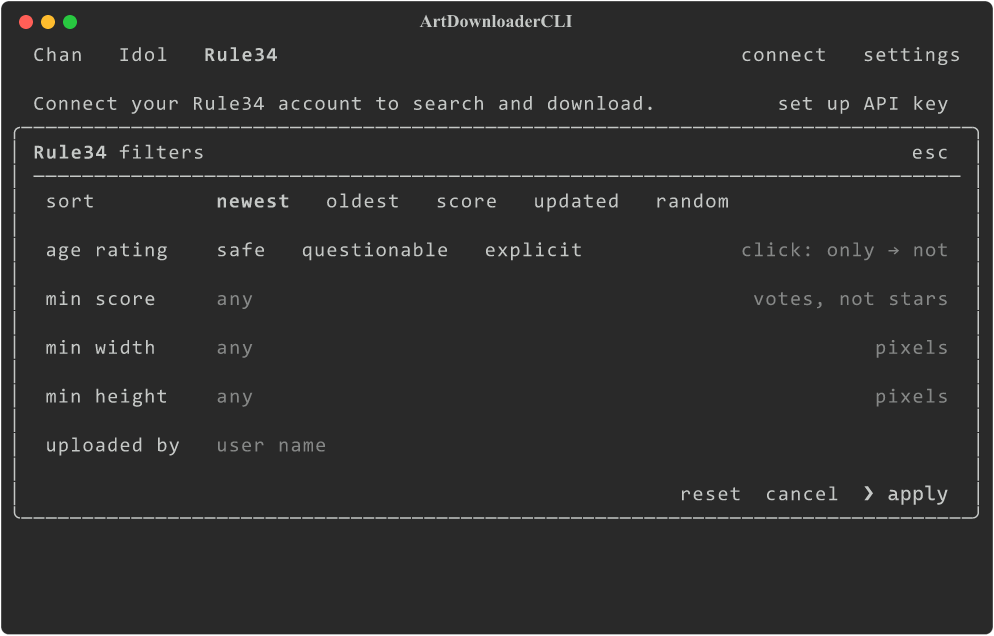
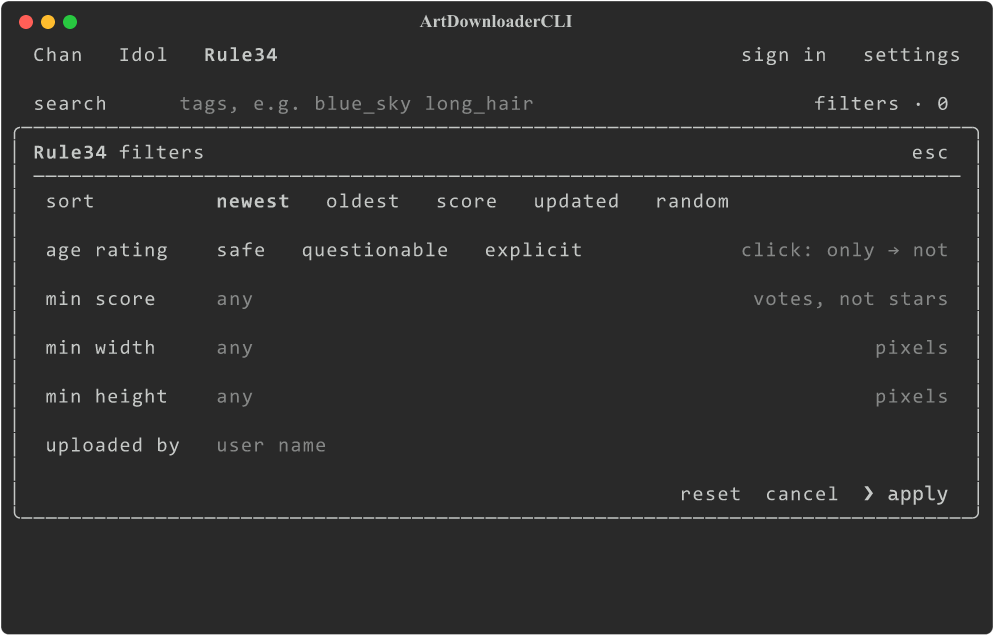
Reuse existing sign-in flow and fix optional numeric filters

diff --git a/ArtDownloader/Tui/AuthScreen.py b/ArtDownloader/Tui/AuthScreen.py
@@ -12,7 +12,6 @@ from ArtDownloader.Api.Errors import ApiError
 from ArtDownloader.Tui.Navigation import ArrowNavigation
 from ArtDownloader.Tui.Sites import site_title
 from ArtDownloader.Tui.Widgets import Action
-import webbrowser
 
 
 class AuthResult(Enum):
@@ -42,26 +41,12 @@ class AuthScreen(ModalScreen[AuthResult], ArrowNavigation):
 
     def compose(self) -> ComposeResult:
         key_auth: bool = self.definition.auth_kind is AuthKind.API_KEY
-        with Vertical(id='dialog', classes='key-dialog' if key_auth else ''):
+        with Vertical(id='dialog'):
             with Horizontal(classes='line'):
-                action: str = 'connect' if key_auth else 'sign in'
-                yield Static(f'[b]{site_title(self.api.site)}[/] · {action}', classes='fill')
+                yield Static(f'[b]{site_title(self.api.site)}[/] · sign in', classes='fill')
                 yield Action('esc', id='close')
 
             yield Rule()
-
-            if key_auth:
-                yield Static(
-                    'An [b]API key[/] is a private access code for this app.\n\n'
-                    '1. Open account settings below and sign in.\n'
-                    '2. Under [b]API Access Credentials[/], select [b]Generate New Key?[/] '
-                    'and [b]Save[/] if you do not have a key yet.\n'
-                    '3. Paste your [b]User ID[/] and [b]API key[/] below.',
-                    id='auth-guide'
-                )
-                with Horizontal(classes='field'):
-                    yield Action('open account settings ↗', 'accent', id='open-account-settings')
-                yield Static(self.definition.account_url, id='account-settings-url', markup=False)
 
             with Horizontal(classes='field'):
                 yield Label('User ID' if key_auth else 'login', classes='caption')
@@ -80,8 +65,10 @@ class AuthScreen(ModalScreen[AuthResult], ArrowNavigation):
                 yield Action('show', id='reveal')
 
             yield Static(
-                'Your key is saved locally in .config/session.json. Keep it private. '
-                'Request limits are handled automatically.'
+                'An API key is a private access code for this app.\n'
+                'In Rule34 account settings → API Access Credentials, '
+                'generate a key and Save. Copy User ID and API key here.\n'
+                'The key is saved locally; keep it private.'
                 if key_auth else 'The password is only exchanged for a session token; it is never saved.',
                 id='auth-hint'
             )
@@ -92,7 +79,7 @@ class AuthScreen(ModalScreen[AuthResult], ArrowNavigation):
                 yield Static('', id='auth-error', classes='fill message')
                 if self.can_retry:
                     yield Action('↻ retry check', id='retry')
-                yield Action('❯ connect' if key_auth else '❯ sign in', 'accent', id='sign-in')
+                yield Action('❯ sign in', 'accent', id='sign-in')
 
 
     def on_mount(self) -> None:
@@ -109,8 +96,6 @@ class AuthScreen(ModalScreen[AuthResult], ArrowNavigation):
             self.toggle_reveal()
         elif action_id == 'retry':
             self.dismiss(AuthResult.RETRY)
-        elif action_id == 'open-account-settings':
-            self.open_account_settings()
         elif action_id == 'close':
             self.action_close()
 
@@ -126,21 +111,6 @@ class AuthScreen(ModalScreen[AuthResult], ArrowNavigation):
     def action_close(self) -> None:
         if not self.busy:
             self.dismiss(AuthResult.CLOSED)
-
-
-    @work(thread=True, exit_on_error=False)
-    def open_account_settings(self) -> None:
-        try:
-            opened: bool = webbrowser.open(self.definition.account_url)
-        except webbrowser.Error:
-            opened = False
-        if not opened:
-            self.app.call_from_thread(self.show_account_url)
-
-
-    def show_account_url(self) -> None:
-        self.query_one('#account-settings-url').display = True
-        self.show_error('Open the account settings URL above in your browser')
 
 
     def toggle_reveal(self) -> None:
@@ -197,10 +167,7 @@ class AuthScreen(ModalScreen[AuthResult], ArrowNavigation):
         self.busy = busy
         sign_in = self.query_one('#sign-in', Action)
         sign_in.disabled = busy
-        key_auth: bool = self.definition.auth_kind is AuthKind.API_KEY
-        sign_in.label = ('checking key…' if key_auth else 'signing in…') if busy else (
-            '❯ connect' if key_auth else '❯ sign in'
-        )
+        sign_in.label = 'signing in…' if busy else '❯ sign in'
         for selector in ('#username', '#password', '#close'):
             self.query_one(selector).disabled = busy
 

diff --git a/ArtDownloader/Tui/SitePane.py b/ArtDownloader/Tui/SitePane.py
@@ -8,7 +8,7 @@ from textual.widgets import Input, Label, OptionList, ProgressBar, Rule, Static
 from rich.markup import escape
 from ArtDownloader.Api.Factory import create_source
 from ArtDownloader.Api.Source import Source
-from ArtDownloader.Api.Sites import AuthKind, Site, SiteDefinition, definition_for
+from ArtDownloader.Api.Sites import Site, SiteDefinition, definition_for
 from ArtDownloader.Api.Filters import SearchFilters, count_operators
 from ArtDownloader.Api.Queries import build_query
 from ArtDownloader.Api.Models import MediaItem, SessionCheck, SessionStatus
@@ -180,9 +180,6 @@ class SitePane(Vertical):
         menu = SuggestionMenu(id='tag-menu')
 
         with Vertical(classes='form'):
-            with Horizontal(id='connection-hint'):
-                yield Static('Connect your Rule34 account to search and download.', classes='fill')
-                yield Action('set up API key', 'accent', id='connect')
             # The menu hangs directly under the query, so both share one group
             # and the row gap goes below the pair. The filter summary is always
             # there (showing 'no filters' when empty), so filters never shift
@@ -261,8 +258,6 @@ class SitePane(Vertical):
             self.toggle_pause()
         elif action_id == 'stop':
             self.stop_download()
-        elif action_id == 'connect':
-            self.open_account()
 
 
     def on_input_submitted(self, event: Input.Submitted) -> None:
@@ -461,10 +456,7 @@ class SitePane(Vertical):
             return
 
         if self.is_signed_in():
-            self.app.push_screen(
-                AccountMenu('disconnect' if self.definition.auth_kind is AuthKind.API_KEY else 'sign out'),
-                self.account_menu_closed
-            )
+            self.app.push_screen(AccountMenu(), self.account_menu_closed)
             return
 
         screen = AuthScreen(self.api, error=self.auth_error or '', can_retry=self.auth_retryable)
@@ -644,10 +636,6 @@ class SitePane(Vertical):
         start = self.query_one('#start', Action)
         start.display = not self.running
         start.disabled = self.checking
-        needs_connection: bool = self.definition.requires_auth and not self.is_signed_in()
-        start.label = 'connect to start' if needs_connection else '▶ start'
-        self.query_one('#connection-hint').display = needs_connection
-        self.query_one('#connect').disabled = self.checking
 
         pause = self.query_one('#pause', Action)
         pause.display = self.running and not stopping

diff --git a/ArtDownloader/Tui/App.py b/ArtDownloader/Tui/App.py
@@ -5,7 +5,7 @@ from textual.containers import Horizontal
 from textual.theme import Theme
 from textual.timer import Timer
 from textual.widgets import ContentSwitcher, Static
-from ArtDownloader.Api.Sites import AuthKind, Site
+from ArtDownloader.Api.Sites import Site
 from ArtDownloader.Auth.CredentialStore import CredentialStore
 from ArtDownloader.Config import AppConfig
 from ArtDownloader.Tui.SitePane import SPINNER_FRAMES, SPINNER_INTERVAL_SECONDS, AccountView, SitePane
@@ -186,16 +186,13 @@ class ArtDownloaderApp(App[None]):
         view = pane.account_view()
         account = self.query_one('#account', Action)
         note = self.query_one('#account-note', Static)
-        key_auth: bool = pane.definition.auth_kind is AuthKind.API_KEY
-
-        note.display = not key_auth and view in (AccountView.SIGNED_IN, AccountView.SIGNED_OUT)
+        note.display = view in (AccountView.SIGNED_IN, AccountView.SIGNED_OUT)
         note.update('[dim]signed in as[/]' if view is AccountView.SIGNED_IN else '[dim]not signed in ·[/]')
         account.disabled = view is AccountView.CHECKING or pane.running
 
         if view is AccountView.CHECKING:
             account.set_tone('')
-            action: str = 'checking key' if key_auth else 'checking sign-in'
-            account.label = f'{action} [$accent]{SPINNER_FRAMES[self.account_frame]}[/]'
+            account.label = f'checking sign-in [$accent]{SPINNER_FRAMES[self.account_frame]}[/]'
             if self.account_spinner is None:
                 self.account_spinner = self.set_interval(SPINNER_INTERVAL_SECONDS, self.tick_account)
             return
@@ -204,13 +201,13 @@ class ArtDownloaderApp(App[None]):
 
         if view is AccountView.SIGNED_IN:
             account.set_tone('success')
-            account.label = f'connected · {escape(pane.username())} ●' if key_auth else f'{escape(pane.username())} ●'
+            account.label = f'{escape(pane.username())} ●'
         elif view is AccountView.ERROR:
             account.set_tone('error')
-            account.label = 'connection error ✕' if key_auth else 'sign-in error ✕'
+            account.label = 'sign-in error ✕'
         else:
             account.set_tone('accent')
-            account.label = 'connect' if key_auth else 'sign in'
+            account.label = 'sign in'
 
 
     def tick_account(self) -> None:

diff --git a/ArtDownloader/Tui/FiltersScreen.py b/ArtDownloader/Tui/FiltersScreen.py
@@ -7,6 +7,7 @@ from textual.app import ComposeResult
 from textual.binding import Binding
 from textual.containers import Horizontal, Vertical
 from textual.screen import ModalScreen
+from textual.validation import Integer
 from textual.widgets import Input, Label, OptionList, Rule, Static
 from rich.markup import escape
 from ArtDownloader.Api.Source import Source
@@ -272,7 +273,10 @@ class FiltersScreen(ModalScreen[SearchFilters | None], ArrowNavigation):
             yield Label(caption, classes='caption')
             yield Input(
                 value=str(value) if value else '', placeholder='any',
-                type='integer', id=field_id, compact=True, classes='number'
+                restrict=r'[0-9]*',
+                validators=Integer(minimum=0, maximum=999999999),
+                valid_empty=True, max_length=9,
+                id=field_id, compact=True, classes='number'
             )
             yield Static(f'[dim]{hint}[/]', classes='unit')
 

diff --git a/ArtDownloader/Tui/AccountMenu.py b/ArtDownloader/Tui/AccountMenu.py
@@ -17,16 +17,11 @@ class AccountMenu(ModalScreen[bool], ArrowNavigation):
     BINDINGS = [Binding('escape', 'close', 'Close')]
 
 
-    def __init__(self, disconnect_label: str = 'sign out') -> None:
-        super().__init__()
-        self.disconnect_label: str = disconnect_label
-
-
     def compose(self) -> ComposeResult:
         # Who is signed in is already on the status the user just clicked, so
         # the menu holds only the action.
         with Vertical(id='account-menu'):
-            yield Action(self.disconnect_label, 'error', id='sign-out')
+            yield Action('sign out', 'error', id='sign-out')
 
 
     def on_mount(self) -> None:

diff --git a/ArtDownloader/Api/Sites.py b/ArtDownloader/Api/Sites.py
@@ -36,7 +36,6 @@ class SiteDefinition:
     auth_kind: AuthKind
     filters: FilterSupport
     requires_auth: bool = False
-    account_url: str = ''
 
 
 SANKAKU_FILTERS: FilterSupport = FilterSupport(
@@ -67,8 +66,7 @@ SITE_DEFINITIONS: dict[Site, SiteDefinition] = {
         'Rule34',
         AuthKind.API_KEY,
         RULE34_FILTERS,
-        requires_auth=True,
-        account_url='https://rule34.xxx/index.php?page=account&s=options'
+        requires_auth=True
     )
 }
 

diff --git a/README.md b/README.md
@@ -9,7 +9,7 @@ Chan and Idol work anonymously. With a Sankaku account you can also:
 
 > **About the 50-page limit:** Sankaku itself stops every search after 50 pages unless the account has a paid subscription. This limit comes from Sankaku's servers, not from this app — the app downloads as far as Sankaku lets your account go.
 
-**Rule34 requires a User ID and API key.** The application includes a short setup guide and opens the account settings page for you. See [Connecting Rule34](#connecting-rule34).
+**Rule34 requires a User ID and API key.** Use the existing sign-in form; its hint explains where to obtain the key. See [Connecting Rule34](#connecting-rule34).
 
 ## Features
 - **Independent sources** – Each site has its own tab, account, settings and download folder; several sites can download at the same time
@@ -59,7 +59,7 @@ Run `start.bat` — it is a polyglot script: double-click it on Windows, or run 
 
 ## Getting started
 1. Pick **Chan**, **Idol** or **Rule34**. Each tab checks its saved connection on start
-2. For Sankaku, click **sign in** or browse anonymously. For Rule34, click **set up API key**
+2. Click **sign in** in the top bar. Sankaku also supports anonymous browsing; Rule34 requires a key
 3. Enter a search query (matching tags drop down as you type), optionally set **filters**, and press **▶ start**
 4. Enjoy your downloads!
 
@@ -74,16 +74,17 @@ extension, and **tags** picks the tag files to write.
 An **API key** is a private access code that lets an application use your account.
 It is different from your password.
 
-1. In the Rule34 tab, click **set up API key**.
-2. Click **open account settings**, then sign in in your browser. Complete a browser
+1. In the Rule34 tab, click **sign in** in the top bar.
+2. Open [Rule34 account settings](https://rule34.xxx/index.php?page=account&s=options),
+   then sign in in your browser. Complete a browser
    verification if the site requests one.
 3. Find **API Access Credentials**. If you do not have a key, select **Generate New
    Key?**, click **Save**, and return to that section.
 4. Copy **User ID** and **API key** into the application's fields, then click
-   **connect**. The application checks the key before saving it.
+   **sign in**. The application checks the key before saving it.
 
 Credentials are stored locally in `.config/session.json`, separately from settings.
-Do not share that file. **disconnect** removes the saved key and remembers only
+Do not share that file. **sign out** removes the saved key and remembers only
 the User ID. A temporary connection error keeps the key and offers **retry check**.
 
 Rule34 API requests are paced automatically across all workers. On a rate-limit
